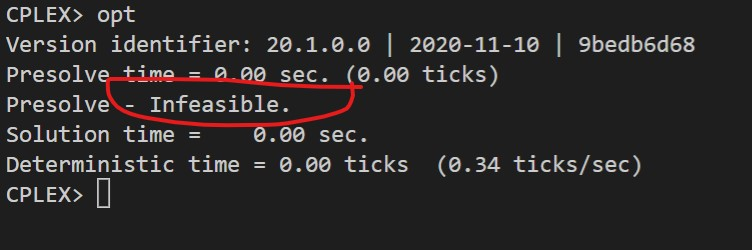
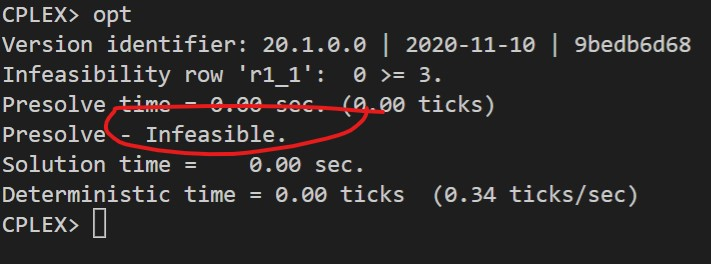
chore: 2

Changed region(s): [[0.0, 0.112, 0.9902, 0.924], [0.0, 0.028, 0.1857, 0.112]]

diff --git a/lista-dualidade/03/README.md b/lista-dualidade/03/README.md
@@ -1,0 +1,53 @@
+# 2
+
+![image](resources/ex.jpg)
+
+## Código ZIMPL
+
+### Problema Primal `pp.zpl`
+
+    # oposto do sinal nas restrições do dual
+    var x1 >= 0; 
+    var x2 >= -infinity;
+    var x3 <= 0;
+
+    maximize Z : 
+        4*x1 + 1*x2 + 5*x3;
+    
+    subto r1: 
+        1*x1 + 1*x2 + 7*x3 >= 10;
+
+    subto r2:
+        3*x1 + 4*x2 + 8*x3 >= 11;
+
+    subto r3:
+        5*x1 + 6*x2 + 9*x3 >= 12;
+
+### Problema Dual `pd.zpl`
+
+    # oposto do sinal nas restrições do primal
+    var w1 <= 0;
+    var w2 <= 0;
+    var w3 <= 0;
+
+    minimize Z :
+        10*w1 + 11*w2 + 12*w3;
+
+    subto r1:
+        1*w1 + 3*w2 + 5*w3 >= 4;
+
+    subto r2:
+        1*w1 + 4*w2 + 6*w3 == 1;
+
+    subto r3:
+        7*w1 + 8*w2 + 8*w3 <= 5;
+
+## Solução CPLEX
+
+### PP
+
+![image](resources/sol-pp.jpg)
+
+### PD
+
+![image](resources/sol-pd.jpg)
